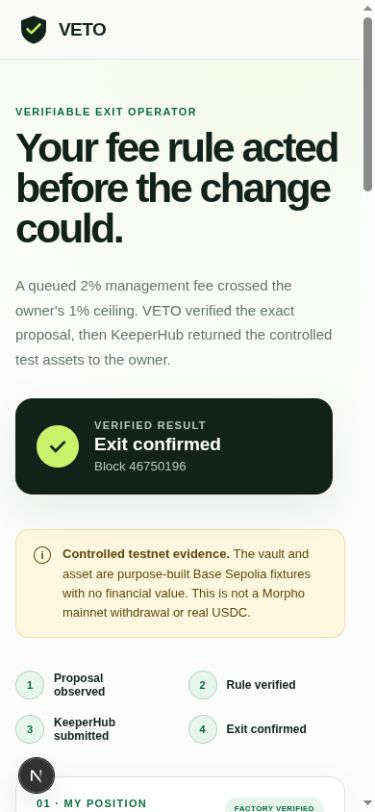
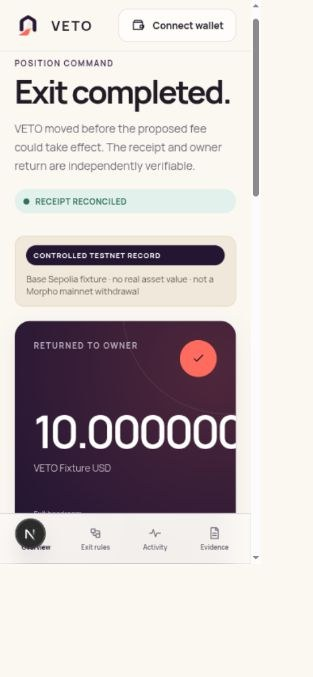
docs(evidence): refresh operator console proof

diff --git a/docs/DAY-4-GATES.md b/docs/DAY-4-GATES.md
@@ -1,9 +1,10 @@
 # Day 4 gates — operator screen
 
-Day 4 turns the verified Day 3 pipeline record into one screen another person can read without
-opening the source code. This checkpoint covers the useful operator screen and public execution
-evidence. The hackathon demonstration and adverse demonstration cases remain explicitly deferred
-at the builder's request; they have not been removed from `plan.md`.
+Day 4 turns the verified Day 3 pipeline record into a product-shaped operator console another
+person can use without opening the source code. This checkpoint covers the overview, exit-rule
+workspace, activity trail, public execution evidence, and responsive product shell. The hackathon
+demonstration and adverse demonstration cases remain explicitly deferred at the builder's request;
+they have not been removed from `plan.md`.
 
 ## Gate status
 
@@ -14,37 +15,42 @@ at the builder's request; they have not been removed from `plan.md`.
 | Waiting change is traceable         | PASS     | Current and proposed fees, rule match, source transaction, submission time, execution time, and remaining headroom are visible  |
 | Outcome is independently verifiable | PASS     | KeeperHub ID, public receipt, inclusion time, block, gas, returned assets, zero guard balance, and duplicate result are visible |
 | Claims are honest                   | PASS     | Screen says controlled testnet fixture, recorded evidence, no real value, and not Morpho mainnet or real USDC                   |
-| Desktop and phone rendering         | PASS     | Browser screenshots and automated overflow/image checks passed                                                                  |
+| Product navigation                  | PASS     | Overview, Exit rules, Activity, and Evidence views switch in place; rule details open in a keyboard-dismissable drawer          |
+| Desktop and phone rendering         | PASS     | Browser screenshots and narrow-phone overflow/image checks passed                                                               |
 | Hackathon demonstration             | DEFERRED | Excluded from this checkpoint by the builder; the plan remains intact                                                           |
 
 ## User flow
 
-1. Read the plain-language sentence explaining why the rule fired.
-2. Confirm the vault, chain, fixture asset, and shares in **My position**.
-3. Optionally connect a browser wallet to compare its address with the recorded owner. This is an
-   address check only; the screen does not ask for a signature or transaction.
-4. Read the bounded rule in **My instruction**, including the finite approval and owner-only
-   cancellation behavior.
-5. Follow the queued change to its public source transaction.
-6. Compare the proposal's 2% fee with the 1% ceiling and see that the exit landed 59 minutes and
-   48 seconds before the fee could first execute.
-7. Open the exact exit receipt and independently verify the successful Base Sepolia transaction.
+1. Open **Overview** and read the completed outcome, testnet boundary, returned amount, and exit
+   headroom.
+2. Compare the proposal's 2% fee with the owner's 1% ceiling, then open **Review rule** for the
+   full immutable mandate.
+3. Open **Exit rules** to inspect the consumed rule or prepare a new-rule draft. Activation is
+   truthfully disabled until a supported owner position and deployed guard are connected.
+4. Open **Activity** to follow all nine KeeperHub-submitted transactions from deployment through
+   exit.
+5. Open **Evidence** to inspect the receipt and follow the exact transaction to Blockscout.
+6. Optionally connect a browser wallet. The current screen only identifies the address; it does not
+   request a signature or create a transaction.
 
 ## Verification performed
 
 - Next.js production build: PASS
 - TypeScript strict check: PASS
 - Desktop browser render: PASS
-- Phone viewport at 390 by 844: PASS
+- Narrow phone-class viewport: PASS
 - Framework error overlay: absent
 - Browser errors and warnings: none
 - Horizontal overflow at phone width: absent
 - Evidence image: loaded with non-zero natural dimensions
-- External evidence links rendered: five
+- Exit-rules navigation: PASS
+- Rule drawer opens and closes with Escape: PASS
+- Unsupported new-rule submission remains disabled: PASS
+- Activity rows linked to public receipts: nine
 
-The rendered page is static apart from the optional wallet-address comparison. It imports the
-committed Day 3 evidence record and receipt screenshot at build time; it does not invent live worker
-or database status.
+The rendered evidence is static apart from navigation, the rule drawer, editable draft fields, and
+optional wallet connection. It imports the committed Day 3 evidence record and receipt screenshot
+at build time; it does not invent live worker or database status.
 
 ## Deferred, not removed
 
@@ -54,5 +60,5 @@ or database status.
 - A real Glacient delivery claim.
 - Morpho mainnet asset movement or real USDC.
 
-These items remain future work. The current screen is an honest evidence reader, not a control panel
-that can move funds.
+These items remain future work. The current console is a high-fidelity product shell and honest
+evidence reader, not yet a control panel that can move funds.

diff --git a/evidence/day-4/operator-screen.md b/evidence/day-4/operator-screen.md
@@ -7,9 +7,10 @@
 
 ## Result
 
-**PASS for the Day 4 operator-screen checkpoint.** A reader can see the depositor position, bounded
-fee rule, queued fee change, exact outcome, and public proof on one responsive page. The hackathon
-demonstration was deliberately excluded from this checkpoint and remains deferred in the plan.
+**PASS for the expanded Day 4 operator-console checkpoint.** A reader can move between Overview,
+Exit rules, Activity, and Evidence; inspect the bounded rule in a drawer; see all nine public
+transactions; and distinguish recorded evidence from unavailable production actions. The hackathon
+demonstration was deliberately excluded and remains deferred in the plan.
 
 ## Screenshots
 
@@ -18,7 +19,8 @@ demonstration was deliberately excluded from this checkpoint and remains deferre
 - Public receipt: [`transaction-proof.jpg`](./transaction-proof.jpg)
 
 The public receipt screenshot is intentionally the unchanged Day 3 exit transaction. Day 4 created
-no new chain transaction.
+no new chain transaction. The refreshed product screenshots show the original VETO identity,
+desktop navigation, and narrow-phone layout.
 
 ## Public receipt
 
@@ -32,6 +34,8 @@ no new chain transaction.
 
 ## Claim boundary
 
-This evidence proves the recorded result can be followed and checked through the screen. It does
-not prove a new Day 4 execution, live Glacient delivery, Morpho mainnet withdrawal, real USDC
-movement, or completion of the deferred hackathon demonstration.
+This evidence proves the recorded result can be followed and checked through the console. The new
+rule drawer is a reviewable draft only: submission is disabled until a supported owner position and
+deployed guard are connected. This does not prove a new Day 4 execution, live Glacient delivery,
+Morpho mainnet withdrawal, real USDC movement, or completion of the deferred hackathon
+demonstration.
